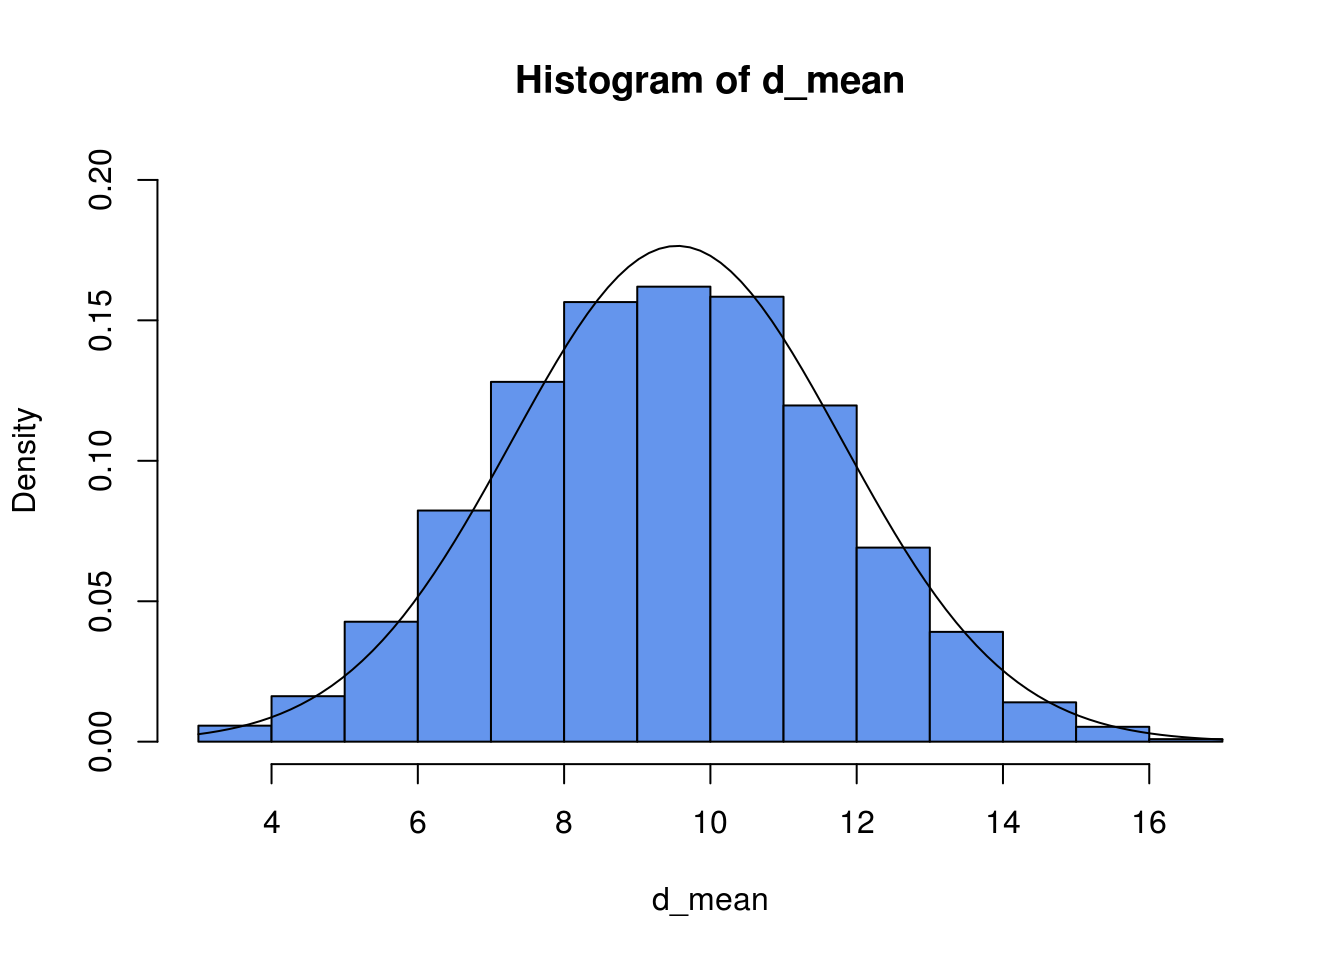
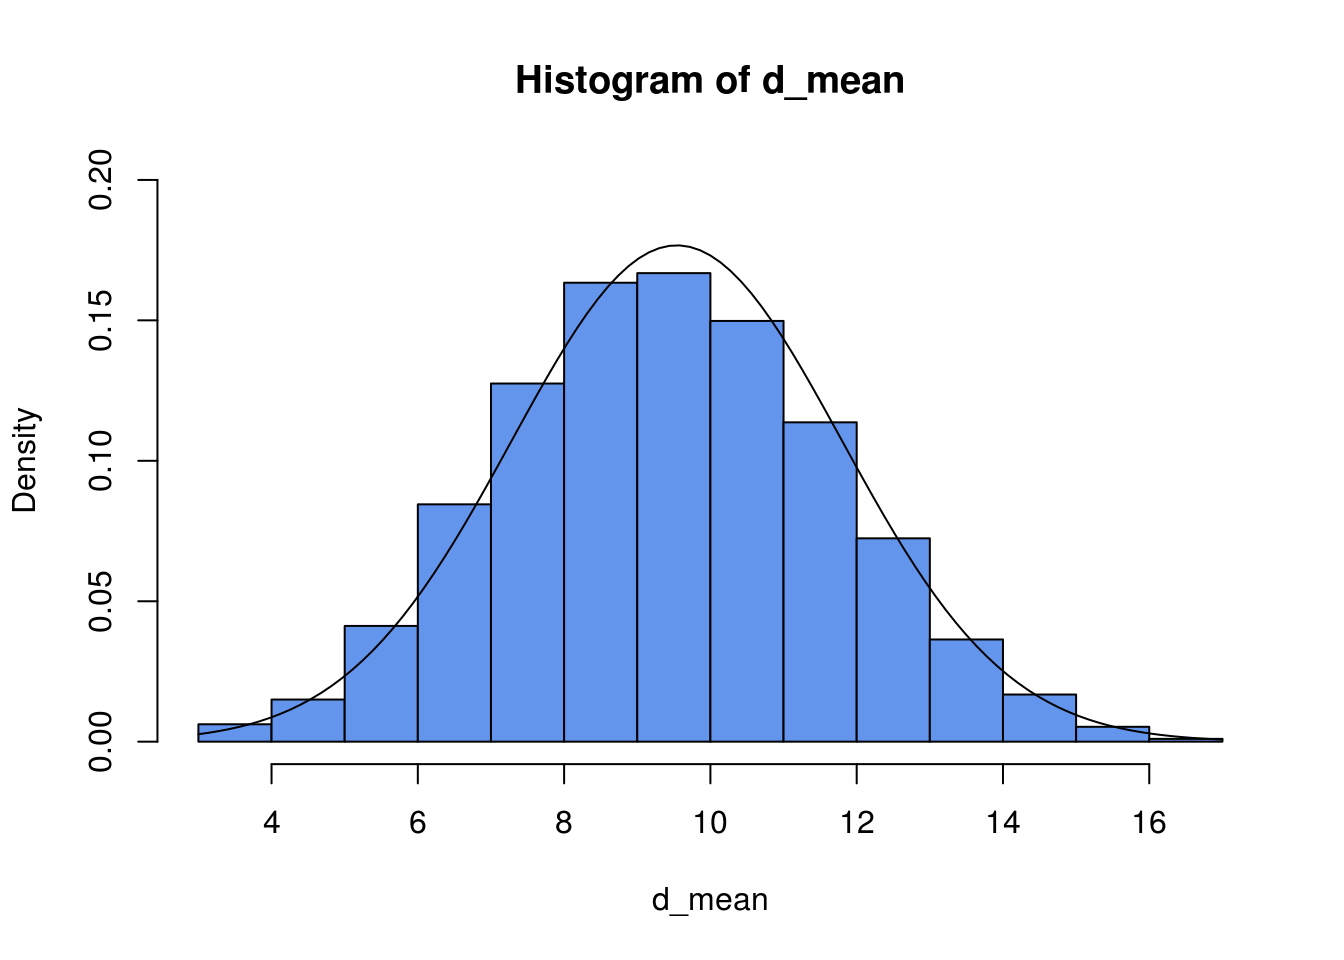
Go!

diff --git a/d_muestral.html b/d_muestral.html
@@ -331,16 +331,16 @@ for (i in 1:30){
   d_mean[i] &lt;- mean(sample(N,size = 4,replace = TRUE))
 }
 print(d_mean)</code></pre>
-<pre><code>##  [1]  8.75 10.00 10.75 11.00  9.00 10.75  9.00  9.50 11.50  6.25 12.25
-## [12] 10.00  6.50 10.75 11.00  9.50  7.75 10.25  9.75 12.50  6.25  9.75
-## [23] 10.50  9.00 12.25 10.00 11.25 11.75  9.50 11.25</code></pre>
+<pre><code>##  [1] 11.00 13.25  7.75 12.00  9.25 12.75  7.25  4.00  9.25  7.50  8.50
+## [12] 10.00  8.00  7.00  7.25  6.75  8.50 11.50 10.25  7.75  9.75 12.25
+## [23] 10.50 10.00  8.00 12.25  7.25  9.00 10.75  6.75</code></pre>
 </div>
 <div id="calculamos-las-medias-de-todas-esas-muestras-y-tratamos-de-ver-graficamente-mediante-un-histograma-al-menos-si-hay-acercamiento-a-normalidad." class="section level4">
 <h4>3) Calculamos las medias de todas esas muestras y tratamos de ver gráficamente mediante un histograma al menos si hay acercamiento a Normalidad.</h4>
 <pre class="r"><code>mean(d_mean)</code></pre>
-<pre><code>## [1] 9.941667</code></pre>
+<pre><code>## [1] 9.2</code></pre>
 <pre class="r"><code>sd(d_mean)</code></pre>
-<pre><code>## [1] 1.6566</code></pre>
+<pre><code>## [1] 2.173905</code></pre>
 <pre class="r"><code>hist(d_mean,col = &quot;cornflowerblue&quot;,freq = F,ylim = c(0,0.2))
 curve(dnorm(x,mean(d_mean),sd(d_mean)),add=TRUE)</code></pre>
 <p><img src="d_muestral_files/figure-html/unnamed-chunk-3-1.png" width="672" /></p>
@@ -351,14 +351,14 @@ curve(dnorm(x,mean(d_mean),sd(d_mean)),add=TRUE)</code></pre>
 <div id="notar-que-la-media-de-las-medias-muestrales-es" class="section level4">
 <h4>1. Notar que la media de las medias muestrales es</h4>
 </div>
-<div id="mu_barx-9.94." class="section level4">
-<h4><span class="math inline">\(\mu_{\bar{X}}=\)</span> 9.94.</h4>
+<div id="mu_barx-9.2." class="section level4">
+<h4><span class="math inline">\(\mu_{\bar{X}}=\)</span> 9.2.</h4>
 </div>
 <div id="este-resultado-esta-bien-cerca-de-la-media-poblacional-pues-mu9.55" class="section level4">
 <h4>Este resultado está bien cerca de la media poblacional, pues <span class="math inline">\(\mu=9.55\)</span></h4>
 </div>
-<div id="la-desviacion-estandar-de-la-media-muestral-es-1.66-mientras-que" class="section level4">
-<h4>2. La desviación estándar de la media muestral es 1.66, mientras que</h4>
+<div id="la-desviacion-estandar-de-la-media-muestral-es-2.17-mientras-que" class="section level4">
+<h4>2. La desviación estándar de la media muestral es 2.17, mientras que</h4>
 </div>
 <div id="sigma_barxdfracsigmasqrtndfrac4.77sqrt42.4-." class="section level4">
 <h4><span class="math inline">\(\sigma_{\bar{X}}=\dfrac{\sigma}{\sqrt{n}}=\dfrac{4.77}{\sqrt{4}}=2.4\)</span> .</h4>
@@ -396,12 +396,15 @@ curve(dnorm(x,mean(d_mean),sd(d_mean)),add=TRUE)</code></pre>
 </div>
 <div id="aplicaciones" class="section level3">
 <h3>Aplicaciones:</h3>
+<div id="caso-1-cuando-la-poblacion-es-normal." class="section level4">
+<h4>Caso 1: Cuando la población es normal.</h4>
 <ol style="list-style-type: decimal">
 <li><h4 id="estadisticas-de-gpa.-el-promedio-de-calificaciones-de-todos-los-estudiantes-que-toman-cursos-de-introduccion-a-la-estadistica-en-los-estados-unidos-varia-segun-una-distribucion-normal-normal3-0.2">Estadísticas de GPA. El promedio de calificaciones de todos los estudiantes que toman cursos de introducción a la estadística en los Estados Unidos varía según una distribución normal <span class="math inline">\(Normal(3, 0.2)\)</span></h4></li>
 </ol>
 <ol style="list-style-type: lower-alpha">
 <li><h4 id="cual-es-la-distribucion-muestral-del-promedio-muestral-para-una-clase-de-5-estudiantes">¿Cuál es la distribución muestral del promedio muestral para una clase de 5 estudiantes?</h4></li>
 </ol>
+</div>
 <div id="supongamos-que-x-es-la-variable-aleatoria-entonces" class="section level4">
 <h4>Supongamos que <span class="math inline">\(X\)</span> es la variable aleatoria, entonces</h4>
 </div>
@@ -419,6 +422,20 @@ curve(dnorm(x,mean(d_mean),sd(d_mean)),add=TRUE)</code></pre>
 </div>
 <div id="barx-sim-normalbig3frac0.2sqrt100big" class="section level4">
 <h4><span class="math display">\[\bar{X} \sim Normal\Big(3,\frac{0.2}{\sqrt{100}}\Big)\]</span></h4>
+<ol start="2" style="list-style-type: decimal">
+<li><h4 id="se-extrae-un-muestra-de-tamano-n30-de-una-poblacion-que-tiene-una-distribucion-desconocida-con-media-mu-y-varianza-sigma2-pero-que-por-alguna-razon-conocemos-que-mu10y-que-sigma233.34.-con-la-informacion-anterior-estamos-interesados-en-contestar-las-siguientes-preguntas">Se extrae un muestra de tamaño <span class="math inline">\(n=30\)</span> de una población que tiene una distribución desconocida con media <span class="math inline">\(\mu\)</span> y varianza <span class="math inline">\(\sigma^2\)</span>, pero que por alguna razón conocemos que <span class="math inline">\(\mu=10\)</span>y que <span class="math inline">\(\sigma^2=33.34\)</span>. Con la información anterior estamos interesados en contestar las siguientes preguntas:</h4></li>
+</ol>
+<ol style="list-style-type: lower-alpha">
+<li><h4 id="cual-es-la-distribucion-muestral-del-promedio-muestral-es-decir-la-distribucion-de-barx">¿Cuál es la distribución muestral del promedio muestral?, es decir la distribución de <span class="math inline">\(\bar{X}\)</span></h4></li>
+<li><h4 id="cual-es-la-probabilidad-de-obtener-un-promedio-muestral-mayor-a-12.5">¿Cuál es la probabilidad de obtener un promedio muestral mayor a 12.5?</h4></li>
+<li><h4 id="cual-es-la-probabilidad-de-encontrar-un-promedio-muestral-entre-8-y-15">¿Cuál es la probabilidad de encontrar un promedio muestral entre 8 y 15?</h4></li>
+</ol>
+</div>
+<div id="caso-2-cuando-desconocemos-la-distribucion-de-la-poblacion-y-nreq-30" class="section level4">
+<h4>Caso 2: Cuando desconocemos la distribución de la población y <span class="math inline">\(n\req 30\)</span></h4>
+<ol style="list-style-type: decimal">
+<li><h4 id="supongamos-que-el-ingreso-familiar-promedio-en-los-estados-unidos-es-de-51344-con-una-desviacion-estandar-de-15377.-cual-es-la-probabilidad-de-que-una-muestra-aleatoria-de-124-hogares-tenga-un-ingreso-familiar-promedio-de-mas-de-54000">Supongamos que el ingreso familiar promedio en los Estados Unidos es de <span class="math inline">\(\$51,344\)</span>, con una desviación estándar de <span class="math inline">\(\$15,377\)</span>. ¿Cuál es la probabilidad de que una muestra aleatoria de <span class="math inline">\(124\)</span> hogares tenga un ingreso familiar promedio de más de $ 54,000?</h4></li>
+</ol>
 </div>
 </div>
 <div id="distribucion-de-la-proporcion-muestral" class="section level3">
